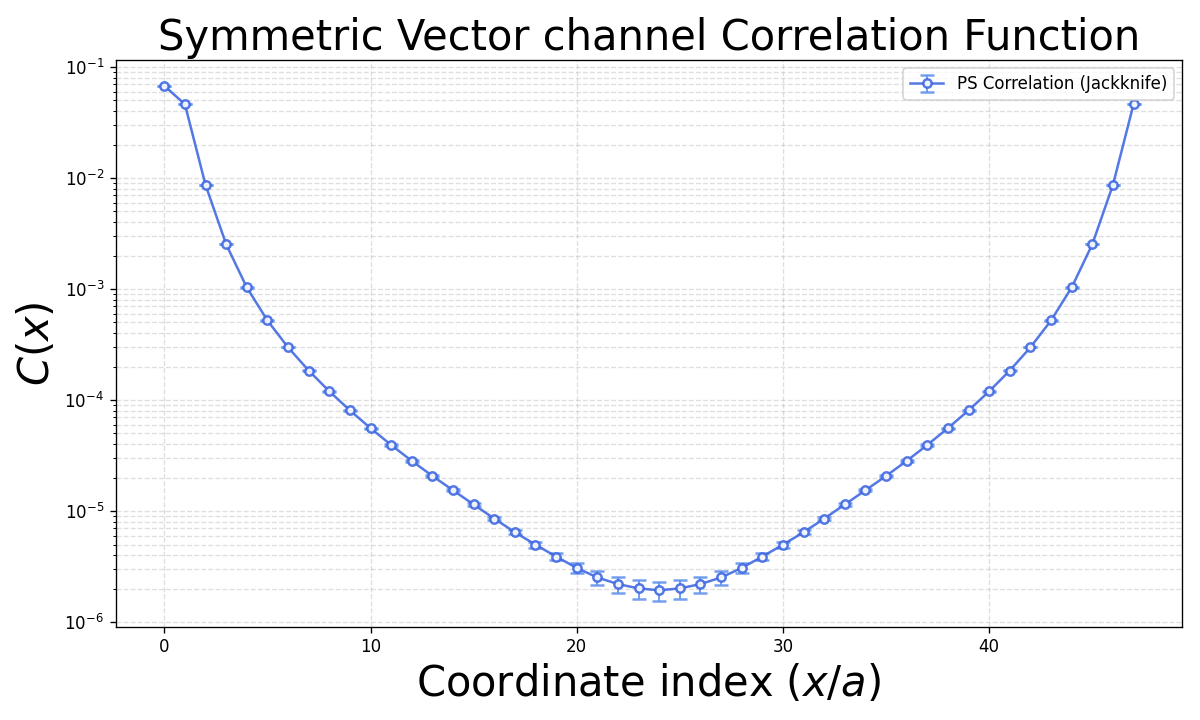
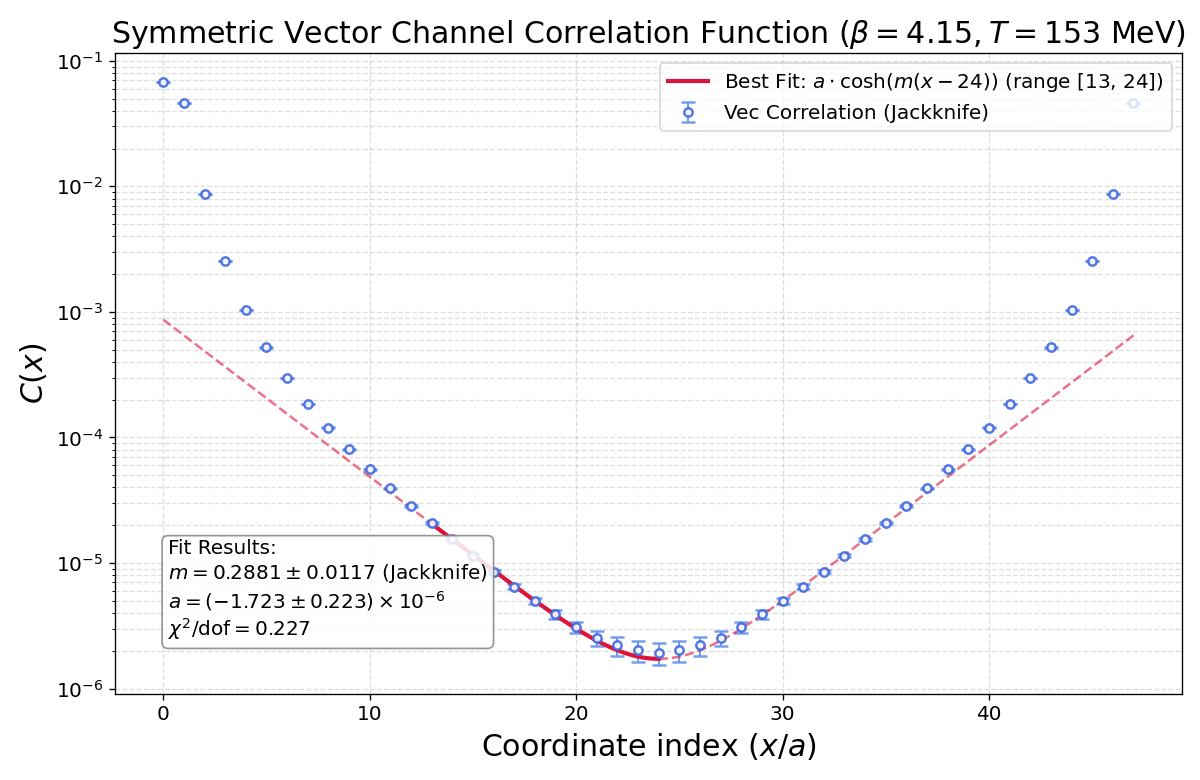
modify diagram

diff --git a/main.tex b/main.tex
@@ -74,7 +74,7 @@
 \fontsize{11pt}{14pt}\selectfont
 \vfill
 \begin{itemize}
-\item Chiral phase transition is key to nuclear physics, cosmology, hadrons, and QGP
+\item Chiral phase transition, which occurred in the early universe, is key to nuclear physics, cosmology, hadrons, and QGP
 \item The behavior of related symmetries determines the order and universality class
 \item Previous lattice studies used algorithms that break chiral symmetry
 \end{itemize}
@@ -88,7 +88,7 @@
 \fontsize{11pt}{14pt}\selectfont
 \begin{itemize}
 \item We use Möbius Domain-Wall Fermions (MDWF) to respect chiral symmetry
-\item Previous JLQCD study investigated $N_f=2$ MDWF [PRD 111, 114506 (2025)]
+\item Our recent study by JLQCD collaboration investigated $N_f=2$ MDWF [PRD 111, 114506 (2025)]
 \item Now we extend the simulation by adding the strange quark ($N_f=2+1$)
 \end{itemize}
 \vfill
@@ -101,9 +101,10 @@
 \fontsize{11pt}{14pt}\selectfont
 \begin{itemize}
 \item  We extend this investigation to a more realistic $N_f=2+1$ QCD case adding strange quark and  improve it to finer lattice size up to L$48^3\times \rm T16$
-\item  We study the fixed $\beta = 4.17$ case to extract the chiral limit, and
- the physical point case to draw the QCD symmetry behavior in reality
-\item  We measured spatial two point correlation function data and analysed the symmetry restoration behavior for physical point with different beta and chiral limit case by a fixed beta case with varying quark masses and lattice size
+\item  We study the fixed $\beta = 4.17$ case  with 4 values of quark masses to
+investigate the quark mass dependence, and the physical point case
+varying beta.
+\item  We measure spatial two point correlation function data and analysed the symmetry restoration behavior for physical point with different beta and chiral limit case by a fixed beta case with varying quark masses and lattice size
 \item  We examine the symmetry breaking by mesons screening masses as a more phenomenologically effective observable followed the idea of work in the 2-flavor case by JLQCD
  {\scriptsize [Phys. Rev. D 111, 114506 (2025)]} \end{itemize}
 \vfill
@@ -247,9 +248,10 @@ Accroding to the symmetry properties, the asymptotic behavior of the 2-point cor
 \vfill
 
 \begin{itemize}
-\item Perturbative analysis of screening masses  {\scriptsize{[Laine \& Vepsäläinen (2004)]}}, for the $N_f=2$ case yields:
+\item Perturbative analysis of screening masses  {\scriptsize{[Laine \& Vepsäläinen (2004)]}}, predicts for the $N_f=2$ case a \textbf{spin-independent} result of the meson screening masses at
+high T due to a large Matsubara mass::
 \[ m_{\mathrm{scr}} = 2\pi T + 0.1872 g^2 T \]
-\item It's spin structure independent.
+\item
 Inspire a larger symmetry, Chiral-Spin Symmetry $SU(2)_{CS}$ , may emerge:\begin{align*}
     q &\to \exp(i\Sigma^i\epsilon_i)q, \\
     \bar{q} &\to \bar{q}\gamma_0 \exp(-i\Sigma^i\epsilon_i)\gamma_0,
@@ -307,7 +309,7 @@ We measure the residual mass $am_{\text{res}}$ using the ratio of two-point corr
     $T$ (MeV) & 138 & 145 & 153 & 157 & 164.5 & 176 & 202 & 241.6 \\
     \midrule
     $m_{\text{res}}/m_l$ & 0.9087 & 0.5360 & 0.3394 & 0.2744 & 0.1836 & 0.1041 & 0.0299 & 0.0049 \\
-    $m_{\text{res}}$ & 7.31e-4 & 4.98e-4 & 3.40e-4 & 2.80e-4 & 1.91e-4 & 1.08e-4 & 2.81e-5 & 3.75e-6 \\
+    $m_{\text{res}}$ (MeV) & 1.61 & 1.16 & 0.832 & 0.703 & 0.503 & 0.304 & 0.0908 & 0.0145 \\
     \bottomrule
 \end{tabular}
 \vfill
@@ -322,8 +324,8 @@ We measure the residual mass $am_{\text{res}}$ using the ratio of two-point corr
 \setbeamerfont{itemize/enumerate body}{size=\fontsize{9pt}{11pt}\selectfont}
 \fontsize{9pt}{11pt}\selectfont
 \begin{itemize}
-    \item Physical Point: Lattice size $48^3 \times 16$, with 16-source measurements for all channels and directions.
-    \item Fixed $\beta = 4.17$: Varying light quark mass $am_l$ and temporal size $N_t$ to study the chiral limit.
+    \item Physical Point: Lattice size $48^3 \times 16$, with 16-source measurements averaging for all channels and take the averaging for all symmetric spatial directions.
+    \item Fixed $\beta = 4.17$: Varying light quark mass $am_l$ and temporal size $N_t$ to study the chiral limit, with 16 source measurement and spatial averaging too.
 \end{itemize}
 
 \vspace{0.5em}
@@ -380,42 +382,6 @@ We measure the residual mass $am_{\text{res}}$ using the ratio of two-point corr
 % ==========================================
 
 
-
-
-% ==============================================================================
-% Slide 12: Meson Channels & Directional Averaging (介子信道与方向平均)
-% ==============================================================================
-\begin{frame}
-\myheading{Meson Channels \& Directional Averaging}
-\vfill
-\setbeamerfont{itemize/enumerate body}{size=\fontsize{9pt}{12pt}\selectfont}
-\begin{itemize}
-    \item We employ 16-source measurements and directional averaging to improve data quality.
-    \item The specific averaging components for each channel are summarized in the table below:
-\end{itemize}
-
-\vspace{0.5em}
-
-\begin{table}[htbp]
-    \centering
-    \scriptsize
-    \renewcommand{\arraystretch}{1.25}
-    \begin{tabular}{lccl}
-        \toprule
-        Channel & Components & Averaged Directions (configured in \texttt{config.py}) \\
-        \midrule
-        AV (Axial Vector) & 6 & $X$ (\texttt{AVector2}, \texttt{AVector3}), $Y$ (\texttt{AVector1}, \texttt{AVector3}), $Z$ (\texttt{AVector1}, \texttt{AVector2}) \\
-        Vec (Vector) & 6 & $X$ (\texttt{Vector2}, \texttt{Vector3}), $Y$ (\texttt{Vector1}, \texttt{Vector3}), $Z$ (\texttt{Vector1}, \texttt{Vector2}) \\
-        S (Scalar) & 3 & $X, Y, Z$ (\texttt{TVector4}) \\
-        PS (Pseudo-Scalar) & 3 & $X, Y, Z$ (\texttt{TAVector4}) \\
-        Tt (Tensor) & 3 & $X$ (\texttt{TVector1}), $Y$ (\texttt{TVector2}), $Z$ (\texttt{TVector3}) \\
-        Xt (Axial Tensor) & 3 & $X$ (\texttt{TAVector1}), $Y$ (\texttt{TAVector2}), $Z$ (\texttt{TAVector3}) \\
-        \bottomrule
-    \end{tabular}
-\end{table}
-\vfill
-\end{frame}
-
 % ==============================================================================
 % Slide 13: Extracting Screening Masses: Methodology (抽取筛选质量：方法学)
 % ==============================================================================
@@ -424,7 +390,7 @@ We measure the residual mass $am_{\text{res}}$ using the ratio of two-point corr
 \vfill
 \setbeamerfont{itemize/enumerate body}{size=\fontsize{9pt}{12.5pt}\selectfont}
 \begin{itemize}
-    \item Screening Mass Fit: The physical screening mass $m_{\text{scr}}$ is extracted by performing a correlated $\chi^2$ fit of $C(x)$ to the asymptotic form:
+    \item Screening Mass Fit: The physical screening mass $m_{\text{scr}}$ is extracted by performing a least-squares $\chi^2$ fit of $C(x)$ to the asymptotic form:
     \[
         C(x) = A \cosh\left(m_{\text{scr}}\left(x - \frac{L}{2}\right)\right)
     \]
@@ -490,7 +456,7 @@ We measure the residual mass $am_{\text{res}}$ using the ratio of two-point corr
                 &\quad \left( \langle (\mathrm{Tr} \slashed{D}^{-1})^2 \rangle - \langle \mathrm{Tr} \slashed{D}^{-1} \rangle^2 \right)
             \end{align*}}
             \item Fluctuations of order parameter, related to topological effects.
-            \item Clear peak determines the pseudo-critical temperature, consistent with the HotQCD result ($T_c = 156.5 \pm 1.5$ MeV).
+            \item Clear peak determines the pseudo-critical temperature, consistent with the HotQCD result(2019) :$T_c = 156.5 \pm 1.5$ MeV.
         \end{itemize}
     \end{column}
 \end{columns}
@@ -503,7 +469,7 @@ We measure the residual mass $am_{\text{res}}$ using the ratio of two-point corr
 \begin{frame}
 \myheading{Numerical Results}
 \vfill
-Multi-source analysis results (grey band shows 2-flavor $T_c = 158(3)$ MeV range {\scriptsize [PRD 111, 114506 (2025)]}):
+
 \begin{columns}[T] % [T] 表示顶部对齐
     % 左侧图: S vs PS
     \begin{column}{0.48\textwidth}
@@ -710,7 +676,7 @@ Asymmetry observables as a function of temperature for various light quark masse
 \vfill
 \begin{itemize}
     \item Physical Point: Crossover transition with $T_c \approx 158$ MeV determined by chiral condensation and disconnected susceptibility. Above $T_c$, chiral flavor and $U(1)_A$ symmetry breakings are consistent with zero within errors.
-    \item Chiral Limit Study: Extrapolations to $am_l \to 0$ support simultaneous restoration of chiral flavor and $U(1)_A$ symmetries.
+    \item Chiral Limit Study: Extrapolations to $am_l \to 0$ both of the breaking of chiral flavor and $U(1)_A$ symmetries consistent with zero within large noisy errors.
     \item Chiral-Spin Symmetry: Remains broken up to 220 MeV
     \item Outlook: Investigate the large oscillations in the $S$ (Scalar) channel near $T_c$ (potential physical origin); measure susceptibility and higher-order fluctuations, etc.
 \end{itemize}